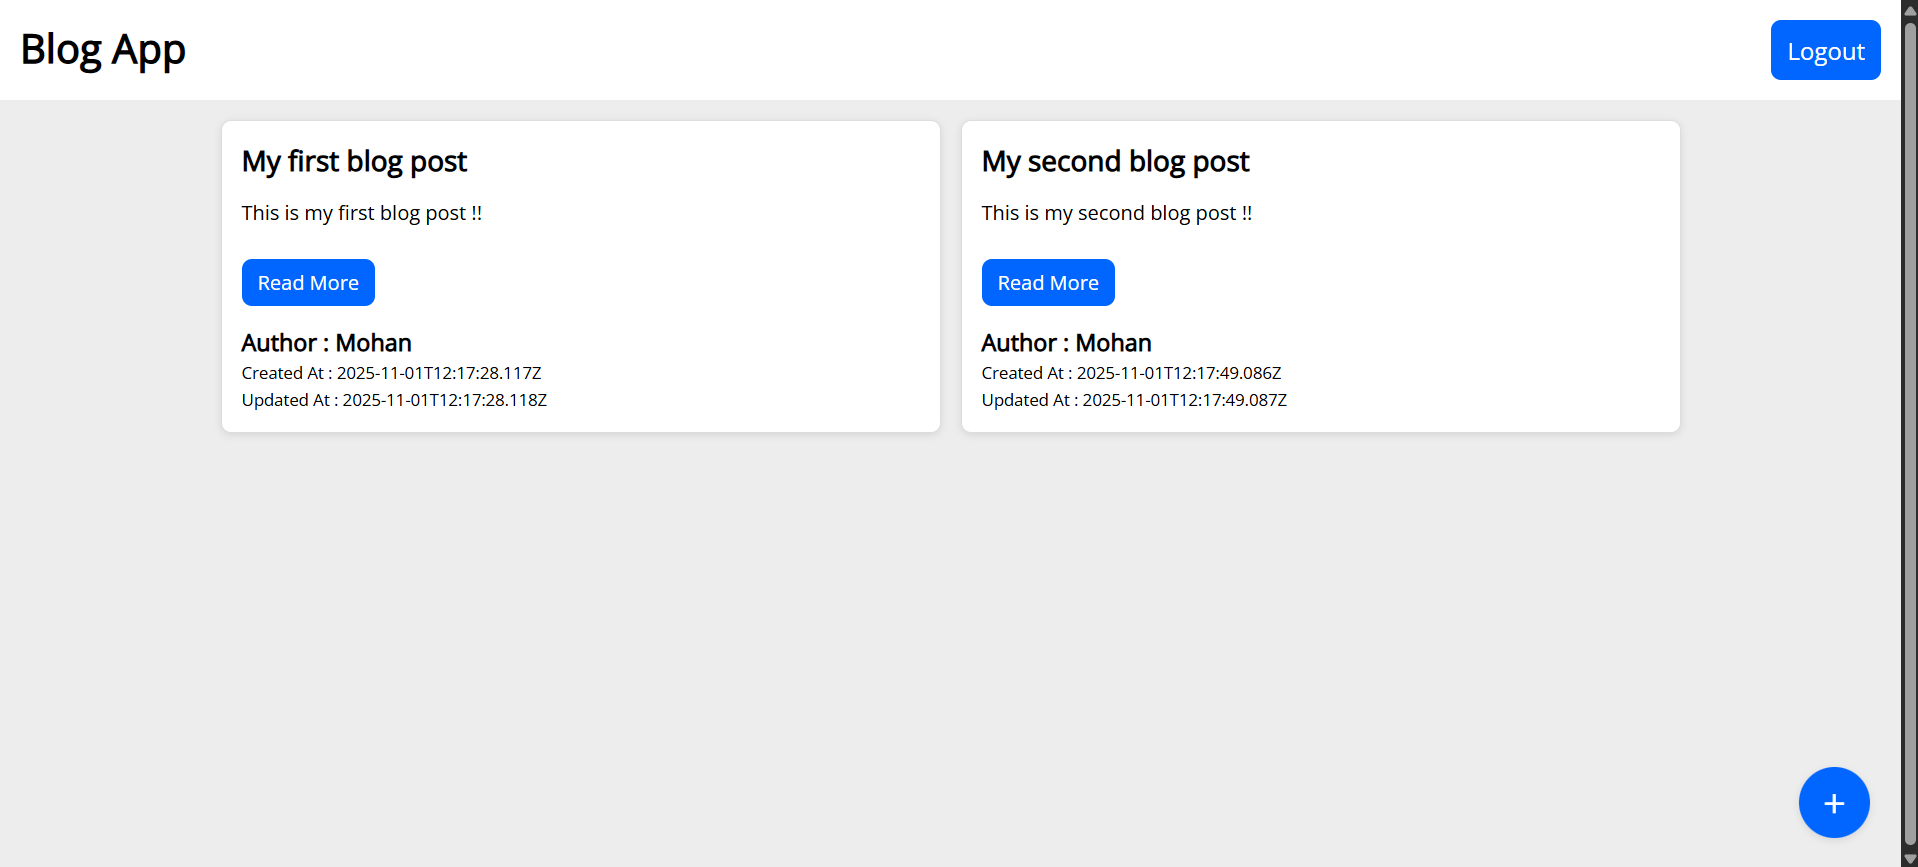
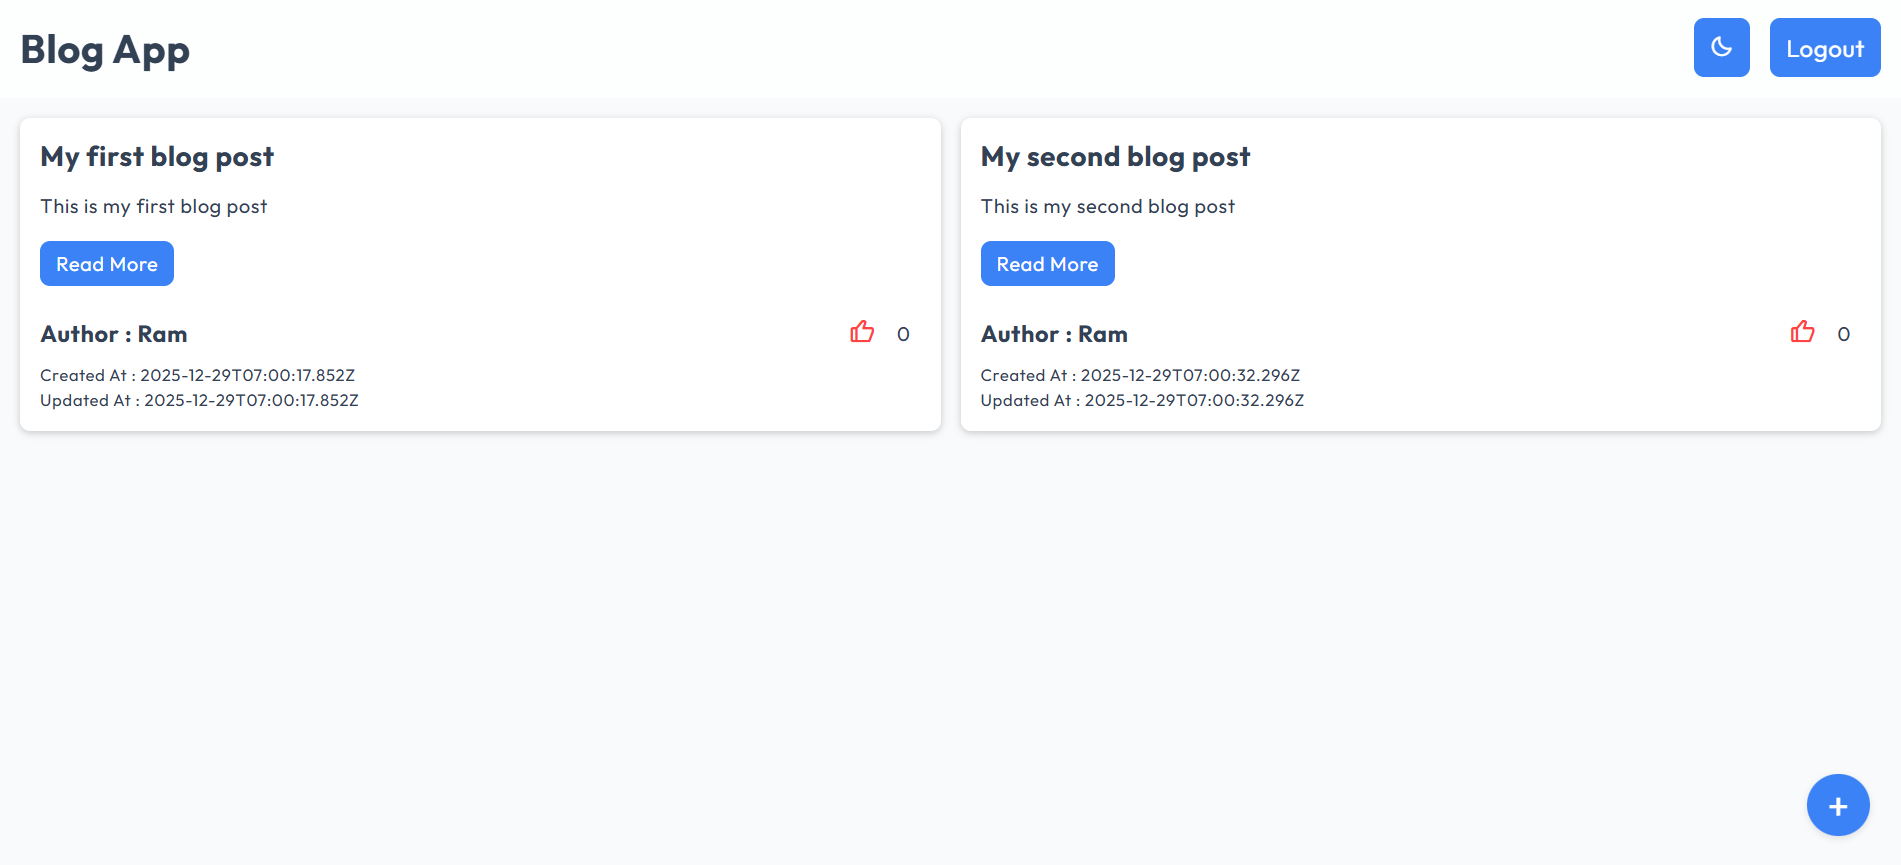
Update README.md

diff --git a/README.md b/README.md
@@ -25,6 +25,76 @@ A full-stack blogging application built using the MERN stack (MongoDB, Express, 
 -   Authentication using JWT tokens
 -   Context-based state management for posts and notifications
 -   Responsive UI
+-   Support for Light and Dark themes
+-   Post like feature
+-   Reusable global loader component
+
+## 📁 Project Structure
+
+```
+Directory structure:
+└── Blog-Post-App/
+    ├── backend/
+    │   ├── controllers/
+    │   │   ├── authController.js
+    │   │   ├── commentController.js
+    │   │   └── postController.js
+    │   ├── middleware/
+    │   │   └── authMiddleware.js
+    │   ├── models/
+    │   │   ├── Comment.js
+    │   │   ├── Post.js
+    │   │   └── User.js
+    │   ├── package-lock.json
+    │   ├── package.json
+    │   ├── routes/
+    │   │   ├── authRoutes.js
+    │   │   ├── commentRoutes.js
+    │   │   └── postRoutes.js
+    │   └── server.js
+    ├── frontend/
+    │   ├── context/
+    │   │   ├── AuthContext.jsx
+    │   │   ├── LoaderContext.jsx
+    │   │   ├── NotificationContext.jsx
+    │   │   ├── PostsContext.jsx
+    │   │   └── ThemeContext.jsx
+    │   ├── eslint.config.js
+    │   ├── index.html
+    │   ├── package-lock.json
+    │   ├── package.json
+    │   ├── screenshots/
+    │   │   ├── AddPostPage.png
+    │   │   ├── Comment_Section.png
+    │   │   ├── EditPostPage.png
+    │   │   ├── HomePage.png
+    │   │   ├── HomePage_Login.png
+    │   │   ├── LoginPage.png
+    │   │   ├── PostDetails.png
+    │   │   └── RegisterPage.png
+    │   ├── src/
+    │   │   ├── App.jsx
+    │   │   ├── components/
+    │   │   │   ├── Comment.jsx
+    │   │   │   ├── CommentList.jsx
+    │   │   │   ├── Loader.jsx
+    │   │   │   ├── Navbar.jsx
+    │   │   │   └── Notification.jsx
+    │   │   ├── main.jsx
+    │   │   ├── pages/
+    │   │   │   ├── CreatePost.jsx
+    │   │   │   ├── EditPost.jsx
+    │   │   │   ├── HomePage.jsx
+    │   │   │   ├── Login.jsx
+    │   │   │   ├── PostDetails.jsx
+    │   │   │   └── Register.jsx
+    │   │   ├── styles.css
+    │   │   └── utils/
+    │   │       ├── axios.js
+    │   │       └── formatTime.js
+    │   └── vite.config.js
+    └── README.md
+```
 
 ## ⚙ Setup Instructions
 
@@ -127,6 +197,10 @@ Here are some screenshots of the MERN Blog App in action:
 ### Edit Post Page
 
 ![Edit Post Page](./frontend/screenshots/EditPostPage.png)
+
+### Comment Section
+
+![Comment Section](./frontend/screenshots/Comment_Section.png)
 
 ## 🤝 Contributing
 
